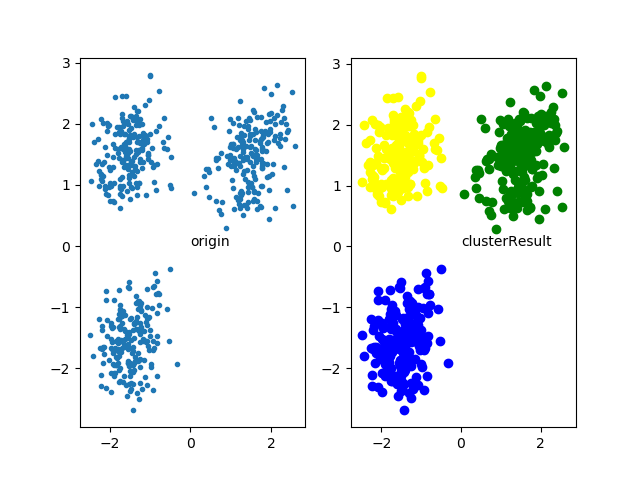
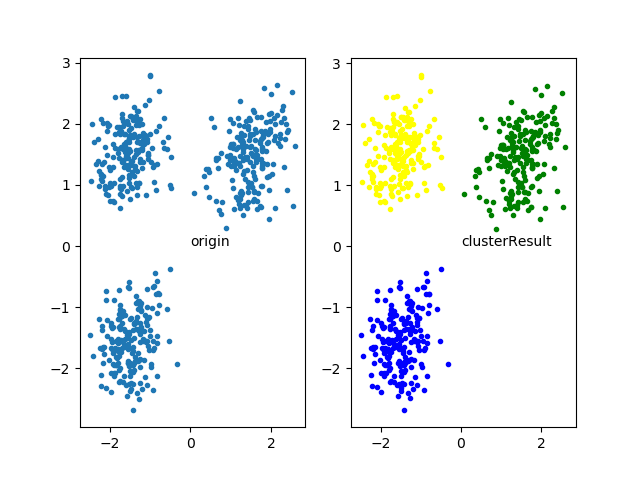
Update

Changed region(s): [[0.5625, 0.1562, 0.9062, 0.5], [0.5625, 0.5625, 0.7188, 0.875], [0.5938, 0.9062, 0.625, 0.9375]]

diff --git a/test_cure.py b/test_cure.py
@@ -34,7 +34,7 @@ scatterColors = ['black', 'blue', 'green', 'yellow', 'red', 'purple', 'orange', 
                  'chocolate', 'darkgreen', 'darkblue', 'azure', 'bisque']
 for i in range(data_set.shape[0]):
     color = scatterColors[Label_pre[i]]
-    plt.scatter(data_set[i, 0], data_set[i, 1], marker='o', c=color)
+    plt.scatter(data_set[i, 0], data_set[i, 1], marker='.', c=color)
 plt.text(0, 0, "clusterResult")
 plt.show()
 
